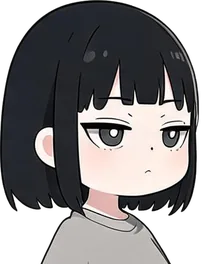
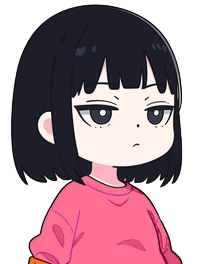
쌍둥이 사이트 그림 13개(34·face·peek·stamp)를 marketing-studio 아동 컬러판 사본으로 교체

diff --git a/_tests/test_copy_site_assets.py b/_tests/test_copy_site_assets.py
@@ -1,0 +1,107 @@
+"""Item: copy marketing-studio's colour site copies into assets/images/twins/.
+
+Done when
+- every listed file is byte-identical to the same-named file in
+  ../marketing-studio/projects/twins/marketing/assets/site/,
+- size and mode match the original file at bb74c20,
+- no *_mono file exists in the repository.
+Run: python _tests/test_copy_site_assets.py
+"""
+import hashlib
+import os
+import subprocess
+import sys
+import unittest
+
+sys.dont_write_bytecode = True
+sys.path.insert(0, os.path.dirname(os.path.abspath(__file__)))
+import imgcheck  # noqa: E402
+
+NAMES = (["sister-34", "brother-34", "sister-face", "brother-face",
+          "sister-peek", "brother-peek"]
+         + [f"stamp-{i}" for i in range(1, 7)] + ["stamp-tile"])
+DEST = "assets/images/twins"
+
+
+def sha(path):
+    with open(path, "rb") as f:
+        return hashlib.sha256(f.read()).hexdigest()
+
+
+class TestCopySiteAssets(unittest.TestCase):
+    def test_source_folder_has_every_file(self):
+        missing = [n for n in NAMES
+                   if not os.path.isfile(os.path.join(imgcheck.SITE_SRC, n + ".webp"))]
+        self.assertEqual(missing, [], f"missing in {imgcheck.SITE_SRC}")
+
+    def test_bytes_equal_marketing_copy(self):
+        diff = []
+        for n in NAMES:
+            dst = imgcheck.repo_path(f"{DEST}/{n}.webp")
+            src = os.path.join(imgcheck.SITE_SRC, n + ".webp")
+            if not os.path.isfile(dst) or sha(dst) != sha(src):
+                diff.append(n)
+        self.assertEqual(diff, [], "not byte-identical to marketing-studio site copy")
+
+    def test_not_the_mono_copy(self):
+        # Guard against copying the *_mono variant under the plain name.
+        same_as_mono = []
+        for n in NAMES:
+            mono = os.path.join(imgcheck.SITE_SRC, n + "_mono.webp")
+            dst = imgcheck.repo_path(f"{DEST}/{n}.webp")
+            if os.path.isfile(mono) and os.path.isfile(dst) and sha(mono) == sha(dst):
+                same_as_mono.append(n)
+        self.assertEqual(same_as_mono, [], "the _mono variant was copied")
+
+    def test_changed_from_base(self):
+        unchanged = [n for n in NAMES
+                     if imgcheck.original_bytes(f"{DEST}/{n}.webp")
+                     == open(imgcheck.repo_path(f"{DEST}/{n}.webp"), "rb").read()]
+        self.assertEqual(unchanged, [], "still the bb74c20 (mono) file")
+
+    def test_size_and_mode_match_base(self):
+        bad = []
+        for n in NAMES:
+            ok, msg = imgcheck.same_size_mode(f"{DEST}/{n}.webp")
+            if not ok:
+                bad.append(msg)
+        self.assertEqual(bad, [])
+
+    def test_more_colourful_than_base(self):
+        dull = []
+        for n in NAMES:
+            rel = f"{DEST}/{n}.webp"
+            old = imgcheck.colourfulness(imgcheck.original(rel))
+            new = imgcheck.colourfulness(imgcheck.current(rel))
+            if new < old + 0.05:
+                dull.append(f"{n}: {old:.3f} -> {new:.3f}")
+        self.assertEqual(dull, [], "copy is not visibly more colourful")
+
+    def test_no_mono_files_in_repo(self):
+        tracked = subprocess.run(["git", "ls-files"], cwd=imgcheck.REPO,
+                                 capture_output=True, text=True, check=True).stdout.split("\n")
+        on_disk = []
+        for root, dirs, files in os.walk(imgcheck.repo_path("assets")):
+            on_disk += [os.path.join(root, f) for f in files if "_mono" in f]
+        self.assertEqual([t for t in tracked if "_mono" in t] + on_disk, [])
+
+
+class TestImgcheckHelpers(unittest.TestCase):
+    def test_colourfulness_bounds(self):
+        from PIL import Image
+        grey = Image.new("RGBA", (8, 8), (120, 120, 120, 255))
+        orange = Image.new("RGBA", (8, 8), (0xF5, 0x7C, 0x00, 255))
+        pink = Image.new("RGBA", (8, 8), (0xFF, 0x6F, 0x91, 255))
+        clear = Image.new("RGBA", (8, 8), (0xFF, 0x6F, 0x91, 0))
+        self.assertEqual(imgcheck.colourfulness(grey), 0.0)
+        self.assertEqual(imgcheck.colourfulness(orange), 0.0)
+        self.assertEqual(imgcheck.colourfulness(pink), 1.0)
+        self.assertEqual(imgcheck.colourfulness(clear), 0.0)
+
+    def test_original_missing_path_raises(self):
+        with self.assertRaises(subprocess.CalledProcessError):
+            imgcheck.original("assets/images/twins/does-not-exist.webp")
+
+
+if __name__ == "__main__":
+    unittest.main(verbosity=1)

diff --git a/_tests/imgcheck.py b/_tests/imgcheck.py
@@ -1,0 +1,72 @@
+"""Shared image checks for the colour-art migration tests.
+
+- original(path): the image as it was at commit BASE (bb74c20), read via `git show`.
+- same_size_mode(path): compare current file's size/mode with the BASE version.
+- colourfulness(img): share of opaque pixels whose saturation >= 0.25 and whose
+  hue is NOT in the tangerine band 20..40 deg (the only colour of the mono art).
+"""
+import colorsys
+import io
+import os
+import subprocess
+
+from PIL import Image
+
+REPO = os.path.dirname(os.path.dirname(os.path.abspath(__file__)))
+BASE = "bb74c20"
+SITE_SRC = os.path.normpath(
+    os.path.join(REPO, "..", "marketing-studio", "projects", "twins",
+                 "marketing", "assets", "site"))
+
+
+def repo_path(rel):
+    return os.path.join(REPO, *rel.split("/"))
+
+
+def original_bytes(rel, rev=BASE):
+    out = subprocess.run(["git", "show", f"{rev}:{rel}"], cwd=REPO,
+                         capture_output=True, check=True)
+    return out.stdout
+
+
+def original(rel, rev=BASE):
+    img = Image.open(io.BytesIO(original_bytes(rel, rev)))
+    img.load()
+    return img
+
+
+def current(rel):
+    img = Image.open(repo_path(rel))
+    img.load()
+    return img
+
+
+def same_size_mode(rel, rev=BASE):
+    """Return (ok, message) comparing current file to the BASE version."""
+    old, new = original(rel, rev), current(rel)
+    if (old.size, old.mode) == (new.size, new.mode):
+        return True, ""
+    return False, (f"{rel}: was {old.size} {old.mode}, "
+                   f"now {new.size} {new.mode}")
+
+
+def colourfulness(img, sat_min=0.25, hue_skip=(20.0, 40.0), alpha_min=128,
+                  max_side=256):
+    """Fraction of opaque pixels that are saturated and not tangerine."""
+    img = img.convert("RGBA")
+    if max(img.size) > max_side:
+        img = img.copy()
+        img.thumbnail((max_side, max_side), Image.NEAREST)
+    total = hits = 0
+    for r, g, b, a in img.getdata():
+        if a < alpha_min:
+            continue
+        total += 1
+        h, _l, s = colorsys.rgb_to_hls(r / 255, g / 255, b / 255)
+        # HLS saturation is unstable near white/black; use HSV-like chroma.
+        mx, mn = max(r, g, b), min(r, g, b)
+        s = 0.0 if mx == 0 else (mx - mn) / mx
+        hue = h * 360.0
+        if s >= sat_min and not (hue_skip[0] <= hue <= hue_skip[1]):
+            hits += 1
+    return hits / total if total else 0.0
